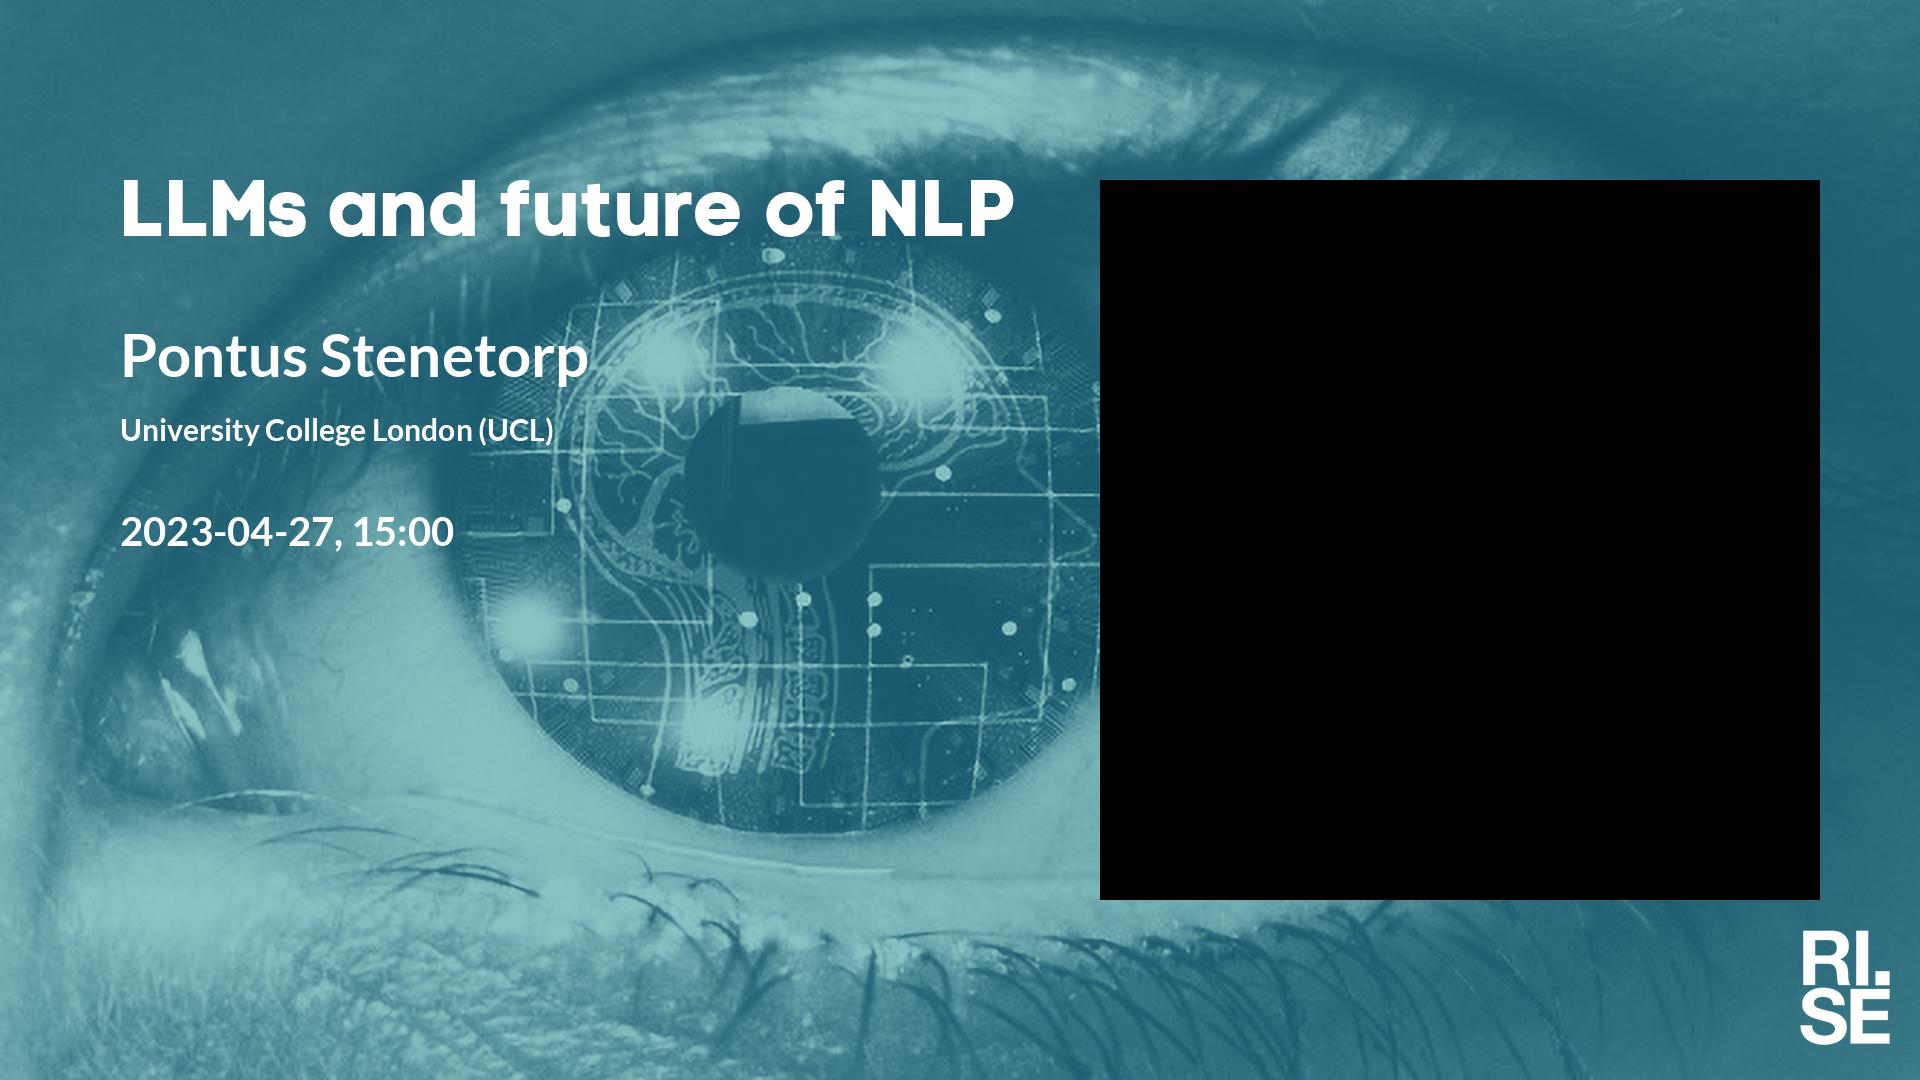
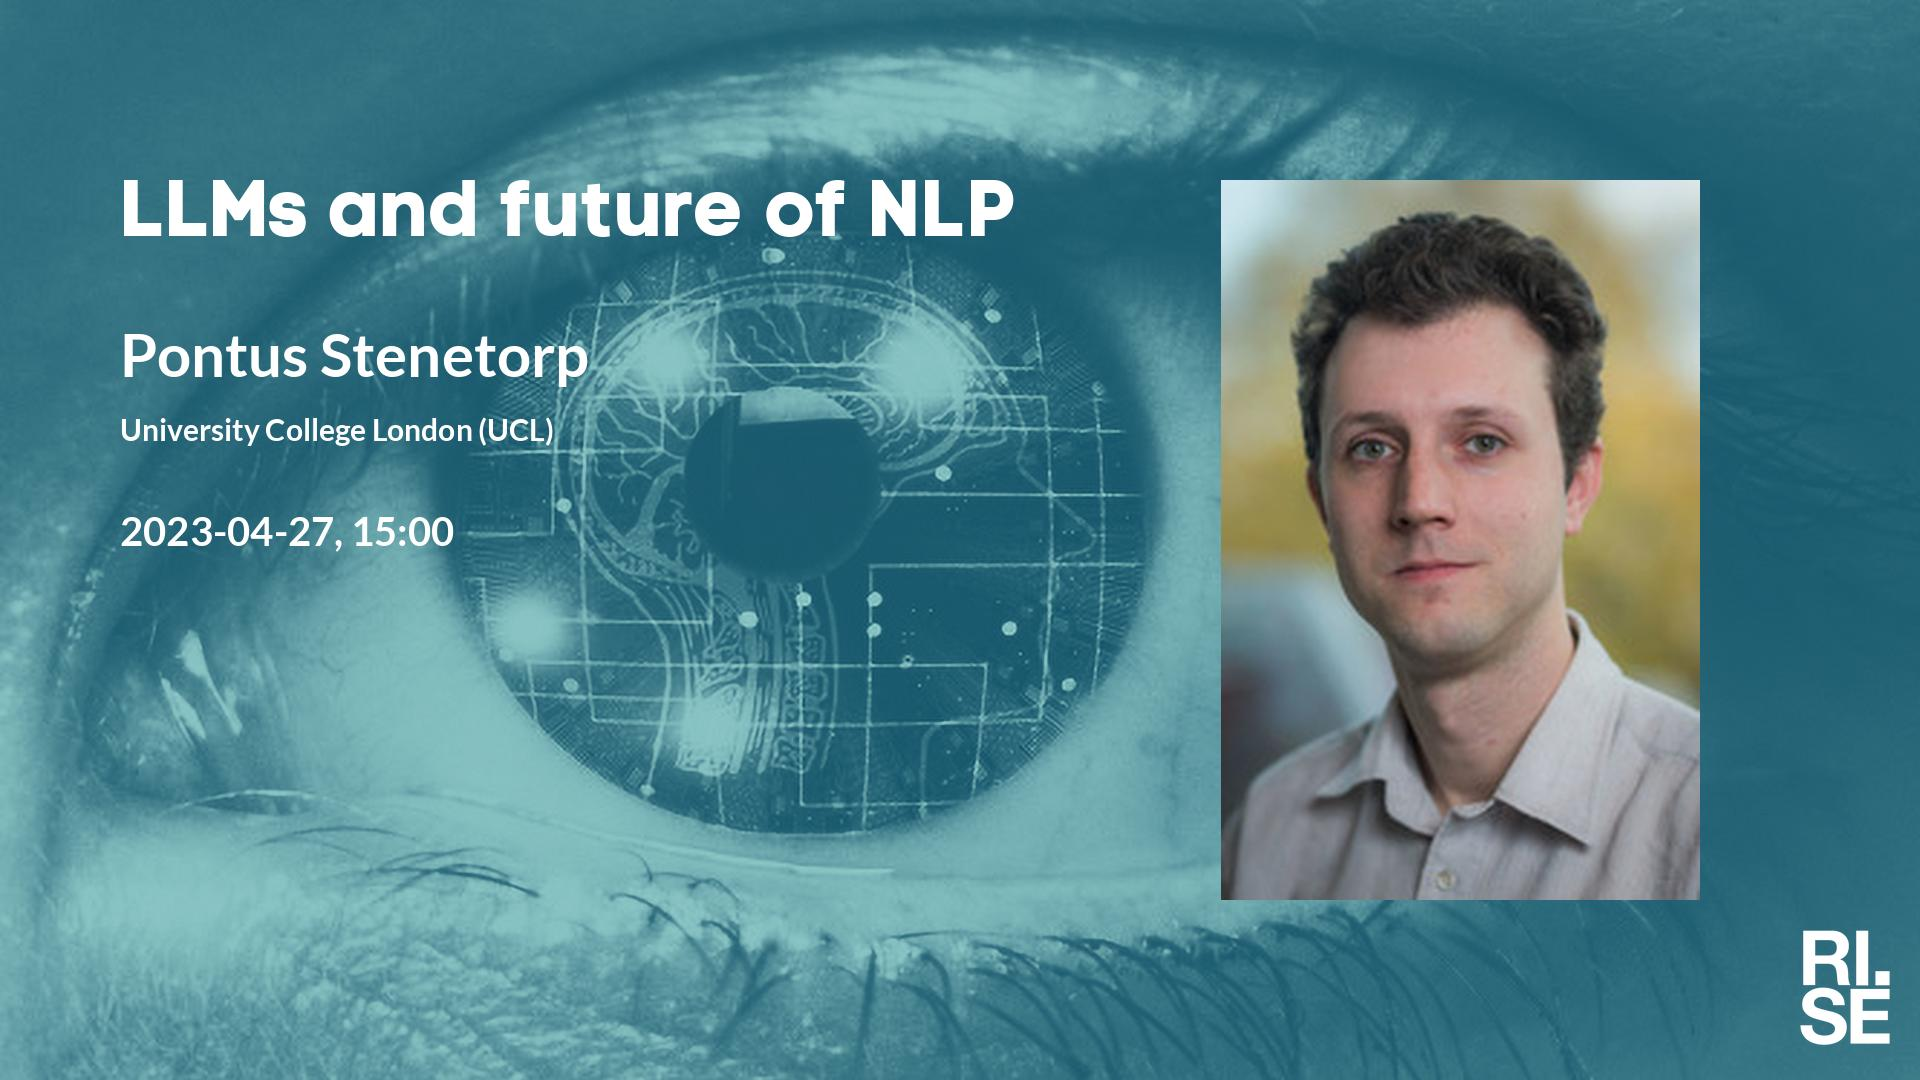
Updated plan on web site.

Changed region(s): [[0.5625, 0.1528, 0.9688, 0.8556]]

diff --git a/lm/index.md b/lm/index.md
@@ -12,7 +12,7 @@ table {border-collapse: collapse;}
 | <span style="color:red"> 2023-04-06 </span> | <span style="color:red"> Påsklov/Skärtorsdag </span> | <span style="color:red">  </span> | <span style="color:red">  </span> | <span style="color:red">  </span> | <span style="color:red">  </span> | <span style="color:red"> CANCELLED </span> |
 |  2023-04-13  |  [Elijah Cole, Caltech](2023-04-13.md)  |  [photo](photo-elijah-cole.jpg)  |  [social media ](social-media-elijah-cole.jpg)  |  [meeting backdrop ](meeting-backdrop-elijah-cole.jpg)  |  [youtube thumbnail ](youtube-thumbnail-elijah-cole.jpg)  |  STABP  |
 |  2023-04-20  |  [Rico Sennrich, University of Zurich](2023-04-20.md)  |  [photo](photo-rico-sennrich.jpg)  |  [social media ](social-media-rico-sennrich.jpg)  |  [meeting backdrop ](meeting-backdrop-rico-sennrich.jpg)  |  [youtube thumbnail ](youtube-thumbnail-rico-sennrich.jpg)  |  STABP  |
-|  2023-04-27  |  [Pontus Stenetorp, University College London (UCL)](2023-04-27.md)  |    |  [social media ](social-media-pontus-stenetorp.jpg)  |  [meeting backdrop ](meeting-backdrop-pontus-stenetorp.jpg)  |  [youtube thumbnail ](youtube-thumbnail-pontus-stenetorp.jpg)  |  STAB~~P~~  |
+|  2023-04-27  |  [Pontus Stenetorp, University College London (UCL)](2023-04-27.md)  |  [photo](photo-pontus-stenetorp.jpg)  |  [social media ](social-media-pontus-stenetorp.jpg)  |  [meeting backdrop ](meeting-backdrop-pontus-stenetorp.jpg)  |  [youtube thumbnail ](youtube-thumbnail-pontus-stenetorp.jpg)  |  STABP  |
 |  2023-05-04  |  [Ida Arvidsson, Lund University](2023-05-04.md)  |    |  [social media ](social-media-ida-arvidsson.jpg)  |  [meeting backdrop ](meeting-backdrop-ida-arvidsson.jpg)  |  [youtube thumbnail ](youtube-thumbnail-ida-arvidsson.jpg)  |  S~~TABP~~  |
 |  2023-05-11  |  [Jonathan Sauder, École polytechnique fédérale de Lausanne (EPFL)](2023-05-11.md)  |    |  [social media ](social-media-jonathan-sauder.jpg)  |  [meeting backdrop ](meeting-backdrop-jonathan-sauder.jpg)  |  [youtube thumbnail ](youtube-thumbnail-jonathan-sauder.jpg)  |  ST~~ABP~~  |
 | <span style="color:red"> 2023-05-18 </span> | <span style="color:red"> Kristi-himmelsfärd </span> | <span style="color:red">  </span> | <span style="color:red">  </span> | <span style="color:red">  </span> | <span style="color:red">  </span> | <span style="color:red"> CANCELLED </span> |
